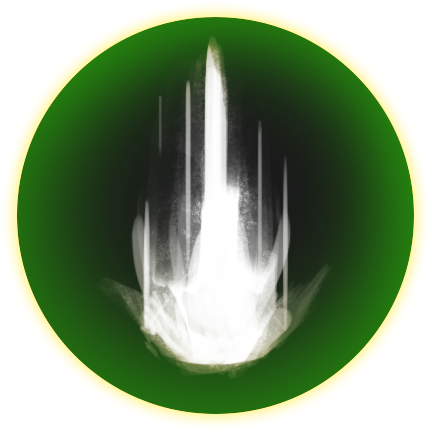
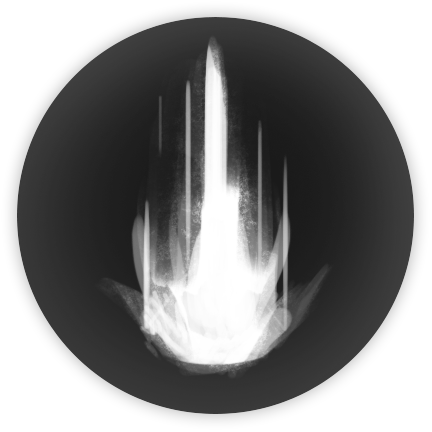
add priest skill button cleaning BW

diff --git a/core/src/com/axival/game/CalculatorManager.java b/core/src/com/axival/game/CalculatorManager.java
@@ -6,7 +6,8 @@ import com.axival.game.screen.ScreenPlay;
 public class CalculatorManager {
     private ScreenPlay screenPlay;
     private MapScreen mapScreen;
-    private  int apScore=3;
+    private  int apScore=3, hp=0, range=0, attk=0, def=0;
+    private int[] allStatus;
     public CalculatorManager(ScreenPlay screenPlay, MapScreen mapScreen){
         this.screenPlay = screenPlay;
         this.mapScreen = mapScreen;
@@ -27,4 +28,66 @@ public class CalculatorManager {
     public int getApScore(){
         return apScore;
     }
+
+    public void setHp(int hp){
+        this.hp = hp;
+    }
+
+    public int getHp(){
+        return hp;
+    }
+
+    public int getRange() {
+        return range;
+    }
+
+    public void setRange(int range) {
+        this.range = range;
+    }
+
+    public int getAttk() {
+        return attk;
+    }
+
+    public void setAttk(int attk) {
+        this.attk = attk;
+    }
+
+    public int getDef() {
+        return def;
+    }
+
+    public void setDef(int def) {
+        this.def = def;
+    }
+
+    public int[] getAllStatus() {
+        return allStatus;
+    }
+
+    public void setAllStatus(int[] allStatus) {
+        this.allStatus = allStatus;
+    }
+
+    public void calculateStatus(int select, int index, int value){
+        //0=+, 1=-, 2=*, 3=/, 4=change value
+        if(select==0){
+            allStatus[index] += value;
+        }
+        else if(select==1){
+            allStatus[index] -= value;
+        }
+        else if(select==2){
+            allStatus[index] *= value;
+        }
+        else if(select==3){
+            allStatus[index] /= value;
+        }
+        else if(select==4){
+            allStatus[index] = value;
+        }
+    }
+
+
+
 }

diff --git a/core/src/com/axival/game/screen/LoadingComponent.java b/core/src/com/axival/game/screen/LoadingComponent.java
@@ -72,7 +72,7 @@ public class LoadingComponent implements Screen {
         stage.addActor(loadingFrame);
         stage.addActor(logo);
         queueAssets();
-        fadeScence.screenfadeIn(new Image(cardPlay.assetManager.get("tone/white.jpg", Texture.class)), "select", 1);
+        fadeScence.screenfadeIn(new Image(cardPlay.assetManager.get("tone/white.jpg", Texture.class)), "menu", 1);
     }
 
     private void update(float delta){
